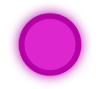
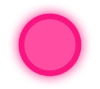
color ring get the score

diff --git a/src/containers/Game/gameEngine/index.js b/src/containers/Game/gameEngine/index.js
@@ -1,16 +1,16 @@
 import React from "react";
-import { StatusBar, TouchableOpacity, View, Alert, Text } from "react-native";
-import { GameEngine } from "react-native-game-engine";
-import { Physics, NewSpinShow, NewFire } from "./systems";
+import {StatusBar, TouchableOpacity, View, Alert, Text} from "react-native";
+import {GameEngine} from "react-native-game-engine";
+import {Physics, NewSpinShow, NewFire} from "./systems";
 import Matter from "matter-js";
-import { widthPercentageToDP as wp, heightPercentageToDP as hp } from "react-native-responsive-screen";
+import {widthPercentageToDP as wp, heightPercentageToDP as hp} from "react-native-responsive-screen";
 import LocationPulseLoader from "../animation/PulseLoader";
 import GameDashBoard from "../components/GamePlayDashboard";
 import GamePlayBottomBar from "../components/GamePlayBottomBar";
-import { getspinArray } from "../../../share/data/gamePlay/FlareArray";
+import {getspinArray} from "../../../share/data/gamePlay/FlareArray";
 import { GetFlareBox } from "../animation/GetFlareAnimation";
-import { connect } from "react-redux";
-import { bindActionCreators } from "redux";
+import {connect} from "react-redux";
+import {bindActionCreators} from "redux";
 import {
   addSpinCoinsScore,
   addSpin,
@@ -19,14 +19,15 @@ import {
   addWaveScore,
   addPassScore, setFlareToken
 } from "../../../redux/action/game";
-import { ADD_APPLE_SPIN, ADD_LOCK_SPIN, ADD_MEGA_SPIN, ADD_NIKE_SPIN } from "../../../redux/action/type";
+import {ADD_APPLE_SPIN, ADD_LOCK_SPIN, ADD_MEGA_SPIN, ADD_NIKE_SPIN} from "../../../redux/action/type";
 import GetBubbleLeftScreen from "../page/GetBubbleLeftScreen";
-import { leftSpinList } from "../../../share/data/gamePlay/LeftFlareData";
+import {leftSpinList} from "../../../share/data/gamePlay/LeftFlareData";
 import GameHeaderBar from "../components/GameHeaderBar";
 import GamePlayHeader from "../components/GamePlayHeader";
 import {randomNumber} from "../../../share/engine";
 import {soundPlay} from "../../../share/soundPlay";
 import {soundPlayNames} from "../../../share/soundPlay/soundName";
+import {FlareType} from "../../../share/data/gamePlay/FlareType";
 
 Matter.Common.isElement = () => false; //-- Overriding this function because the original references HTMLElement
 
@@ -38,8 +39,9 @@ let doubleFireReadyTimer = null;
 let burstFireTimer = null;
 let burstFireTemp = false;
 let proImageTargetMark = 0;
+let getFlareData;
 
-function GameEnginePlay({addWaveScore, gameScore, backPage, setFlareToken, addSpinCoinsScore,addSpin, addSpinList, resetAnimation, getSpinListItems }) {
+function GameEnginePlay({addWaveScore, gameScore, backPage, setFlareToken, addSpinCoinsScore, addSpin, addSpinList, resetAnimation, getSpinListItems}) {
   const [running, setRunning] = React.useState(true);
   const [bulletCount, setBulletCount] = React.useState(100);
   const [gamePlayTime, setGamePlayTime] = React.useState(100);
@@ -54,7 +56,7 @@ function GameEnginePlay({addWaveScore, gameScore, backPage, setFlareToken, addSp
   const multiShotSpeed = 80;
 
   React.useEffect(() => {
-    addWaveScore(-1* gameScore.waveScore);
+    addWaveScore(-1 * gameScore.waveScore);
     gameStart();
     return () => {
       clearInterval(gameStartInternal);
@@ -65,19 +67,19 @@ function GameEnginePlay({addWaveScore, gameScore, backPage, setFlareToken, addSp
   React.useEffect(() => {
     if (gamePlayTime < 1) {
       let getSpinCoin = 0;
-      for (let i=0; i<= gameScore.playerPassScore; i++) {
+      for (let i = 0; i <= gameScore.playerPassScore; i++) {
         getSpinCoin += i;
-        if(i===12)
+        if (i === 12)
           break;
       }
-      setFlareToken(Math.floor((getSpinCoin+gameScore.spinCoins)/25));
+      setFlareToken(Math.floor((getSpinCoin + gameScore.spinCoins) / 25));
       addSpinCoinsScore(getSpinCoin);
       clearInterval(gameStartInternal);
       gameStop();
     }
     if (gamePlayTime % targetShowTime === 0 && (gamePlayTime > 3)) {
       const random = (randomNumber(0, 10000) % wp("70")) + wp("10");
-      const targetPosition = { x: random, y: hp("90") };
+      const targetPosition = {x: random, y: hp("90")};
       const spinInfoData = getspinArray()[randomNumber(2, 4)];
       NewSpinShow(targetPosition, spinInfoData, spinSpeed);
     }
@@ -94,9 +96,34 @@ function GameEnginePlay({addWaveScore, gameScore, backPage, setFlareToken, addSp
     setGamePauseState(true);
   };
 
+  const calculatorScore = (spinInfoData) => {
+    let resultScore = 0;
+    switch (spinInfoData["spinColor"]) {
+      case FlareType.profileOrbsColor.green:
+        resultScore = 5;
+        break;
+      case FlareType.profileOrbsColor.blue:
+        resultScore = 7;
+        break;
+      case FlareType.profileOrbsColor.purple:
+        resultScore = 10;
+        break;
+      case FlareType.profileOrbsColor.pink:
+        resultScore = 15;
+        break;
+      case FlareType.profileOrbsColor.amber:
+        resultScore = 25;
+        break;
+    }
+    return resultScore;
+  };
+
   const onEvent = (e) => {
     if (e.type === "goal-target") {
       setGameHitData(e.data);
+      if(e.data["spinInfoData"]) {
+        getFlareData = e.data["spinInfoData"];
+      }
       proImageTargetMark = 0;
     }
     switch (e.type) {
@@ -130,7 +157,7 @@ function GameEnginePlay({addWaveScore, gameScore, backPage, setFlareToken, addSp
         break;
       case "goal-user":
         soundPlay(soundPlayNames.GamePlay.tapClickTarget);
-        proImageTargetMark = randomNumber(10, 100);
+        proImageTargetMark = calculatorScore(getFlareData); // tap the profile orbs
         addWaveScore(proImageTargetMark);
         break;
       case "goal-mega-tap":
@@ -162,8 +189,8 @@ function GameEnginePlay({addWaveScore, gameScore, backPage, setFlareToken, addSp
         break;
       case "goal-user-tap":
         soundPlay(soundPlayNames.GamePlay.fireWorks);
-        proImageTargetMark = 1000 + randomNumber(10, 100);
-        addWaveScore(proImageTargetMark-1000);
+        proImageTargetMark = calculatorScore(getFlareData) + 1000;// hit the profile Orbs
+        addWaveScore(proImageTargetMark);
         break;
       case "no-goal":
         break;
@@ -210,7 +237,7 @@ function GameEnginePlay({addWaveScore, gameScore, backPage, setFlareToken, addSp
   };
 
   const FirePressIn = () => {
-    burstFireTimer = setInterval(()=> {
+    burstFireTimer = setInterval(() => {
       doubleFireReady = true;
       burstFireTemp = true;
       onMultiFireGun(5);
@@ -245,7 +272,7 @@ function GameEnginePlay({addWaveScore, gameScore, backPage, setFlareToken, addSp
       }, 220);
     }
     clearInterval(burstFireTimer);
-      burstFireTemp = false
+    burstFireTemp = false
   };
   const gameStart = () => {
     const id = setInterval(() => {
@@ -258,11 +285,11 @@ function GameEnginePlay({addWaveScore, gameScore, backPage, setFlareToken, addSp
 
   const setupWorld = () => {
     const random = Math.floor(Math.random() * 10000) % wp("100");
-    const targetPosition = { x: random, y: hp("89") };
-    const engine = Matter.Engine.create({ enableSleeping: false });
+    const targetPosition = {x: random, y: hp("89")};
+    const engine = Matter.Engine.create({enableSleeping: false});
     const world = engine.world;
     return {
-      physics: { engine: engine, world: world },
+      physics: {engine: engine, world: world},
       targetPosition: targetPosition
     };
   };
@@ -272,7 +299,7 @@ function GameEnginePlay({addWaveScore, gameScore, backPage, setFlareToken, addSp
       flex: 1
     }}>
       <GameEngine
-        style={{ zIndex: 3 }}
+        style={{zIndex: 3}}
         ref={(ref) => {
           gameEngine = ref;
         }}
@@ -289,9 +316,9 @@ function GameEnginePlay({addWaveScore, gameScore, backPage, setFlareToken, addSp
                      spinInfoData={gameHitData["spinInfoData"]}
                      mark={proImageTargetMark}/>
       }
-      <GameDashBoard />
+      <GameDashBoard/>
       {
-        !running && getSpinListItems.length < 1 ? <GamePlayHeader backPage={backPage}/>: <GameHeaderBar/>
+        !running && getSpinListItems.length < 1 ? <GamePlayHeader backPage={backPage}/> : <GameHeaderBar/>
       }
       <GamePlayBottomBar bulletCount={bulletCount} gamePlayTime={gamePlayTime}/>
       <TouchableOpacity
@@ -317,9 +344,9 @@ function GameEnginePlay({addWaveScore, gameScore, backPage, setFlareToken, addSp
           height: hp("100"),
         }}>
           <TouchableOpacity onPress={gameStart}
-          style={{
-            flex: 1,
-          }}>
+                            style={{
+                              flex: 1,
+                            }}>
             <View style={{
               flex: 1,
               alignItems: "center",
@@ -356,7 +383,7 @@ const mapDispatchToProps = (dispatch) => {
       addWaveScore: addWaveScore,
       addPassScore: addPassScore,
       addSpin: addSpin,
-      addSpinList:addSpinList,
+      addSpinList: addSpinList,
       resetAnimation: resetAnimation,
       setFlareToken: setFlareToken
     }, dispatch)

diff --git a/src/share/data/MocData.js b/src/share/data/MocData.js
@@ -33,7 +33,11 @@ const AppMocData = {
           blue: require('../../../assets/images/game/gameplay/target/circle/target-bg-blue-c.png'),
           green: require('../../../assets/images/game/gameplay/target/circle/target-bg-green-c.png'),
           orange: require('../../../assets/images/game/gameplay/target/circle/target-bg-orange-c.png'),
-          pink: require('../../../assets/images/game/gameplay/target/circle/target-bg-pink-c.png')
+          purple: require('../../../assets/images/game/gameplay/target/circle/target-bg-purple-c.png'),
+          pink: require('../../../assets/images/game/gameplay/target/circle/target-bg-pink-c.png'),
+          red: require('../../../assets/images/game/gameplay/target/circle/target-bg-red-c.png'),
+          white: require('../../../assets/images/game/gameplay/target/circle/target-bg-white-c.png'),
+          amber: require('../../../assets/images/game/gameplay/target/circle/target-bg-amber-c.png')
         },
         mega: {
           apple: require('../../../assets/images/game/gameplay/target/mega/apple.png'),
@@ -44,7 +48,7 @@ const AppMocData = {
         shadow: {
           white: require('../../../assets/images/game/gameplay/target/shadow/target-trace-white-3.png'),
           blue: require('../../../assets/images/game/gameplay/target/shadow/target-trace-blue-3.png'),
-          pink: require('../../../assets/images/game/gameplay/target/shadow/target-trace-pink-3.png'),
+          purple: require('../../../assets/images/game/gameplay/target/shadow/target-trace-purple-3.png'),
           green: require('../../../assets/images/game/gameplay/target/shadow/target-trace-green-3.png'),
           orange: require('../../../assets/images/game/gameplay/target/shadow/target-trace-orange-3.png')
         },

diff --git a/src/share/data/gamePlay/FlareArray.js b/src/share/data/gamePlay/FlareArray.js
@@ -35,7 +35,7 @@ export const getspinArray = () => {
       megaType: FlareType.spinType.mega[getRandomType(FlareType.spinType.mega, 4)],
       userType: FlareType.spinType.user.woman,
       spinNumber: 0,
-      spinColor: FlareType.spinColor[getRandomType(FlareType.spinColor, 4)],
+      spinColor: FlareType.spinColor[getRandomType(FlareType.flareOrbsColor, 5)],
       shadowColor: FlareType.shadowColor.white,
       spinSize: FlareType.spinSize[getRandomType(FlareType.spinSize, 3)],
       spinTextSize: FlareType.spinTextSize.small
@@ -45,7 +45,7 @@ export const getspinArray = () => {
       megaType: FlareType.spinType.mega.apple,
       userType: FlareType.spinType.user[getRandomType(FlareType.spinType.user, 2)],
       spinNumber: -1,
-      spinColor: FlareType.spinColor[getRandomType(FlareType.spinColor, 4)],
+      spinColor: FlareType.spinColor[getRandomType(FlareType.profileOrbsColor, 4)],
       shadowColor: FlareType.shadowColor.white,
       spinSize: FlareType.spinSize[getRandomType(FlareType.spinSize, 3)],
       spinTextSize: FlareType.spinTextSize.small

diff --git a/src/containers/Game/components/FlareSpin.js b/src/containers/Game/components/FlareSpin.js
@@ -20,6 +20,7 @@ const FlareSpin = ({ spinInfoData, angle, shadow=true, running = true }) => {
   } else if (spinNumber <= 0) {
     ty = spinSize / 8.6;
   }
+
   return (
     <View style={{
       display: "flex",
@@ -28,7 +29,7 @@ const FlareSpin = ({ spinInfoData, angle, shadow=true, running = true }) => {
       marginTop: hp(spinSize/-8),
     }}>
       {
-        shadow &&  <Image source={targetImage.shadow[spinColor]} style={{
+        shadow &&  <Image source={targetImage.shadow['orange']} style={{
           marginTop: wp(spinSize / 6),
           width: wp(spinSize * 2 / 3),
           height: hp(spinSize * 3 / 2),

diff --git a/src/share/data/gamePlay/FlareType.js b/src/share/data/gamePlay/FlareType.js
@@ -17,6 +17,10 @@ export const FlareType = {
     green: 'green',
     orange: 'orange',
     blue:'blue',
+    purple: 'purple',
+    white: 'white',
+    amber: 'amber',
+    red: 'red',
     pink: 'pink'
   },
   shadowColor: {
@@ -31,5 +35,18 @@ export const FlareType = {
     small: 10,
     normal: 12,
     big: 15,
+  },
+  profileOrbsColor: {
+    green: 'green',
+    blue:'blue',
+    purple: 'purple',
+    pink: 'pink',
+    amber: 'amber'
+  },
+  flareOrbsColor: {
+    white: 'white',
+    amber: 'amber',
+    orange: 'orange',
+    red: 'red'
   }
-}
+};

diff --git a/src/containers/Game/components/GamePlayBottomBar.js b/src/containers/Game/components/GamePlayBottomBar.js
@@ -3,8 +3,6 @@ import { Text } from "native-base";
 import { Animated, View } from "react-native";
 import React, { useRef } from "react";
 import { widthPercentageToDP as wp } from "react-native-responsive-screen";
-import * as Audio from "expo-av/build/Audio";
-import AppMocData from "../../../share/data/MocData";
 import {soundPlay} from "../../../share/soundPlay";
 import {soundPlayNames} from "../../../share/soundPlay/soundName";
 

diff --git a/src/navigators/GameNavigator.js b/src/navigators/GameNavigator.js
@@ -13,14 +13,14 @@ import GetAnswerFlare from "../containers/Game/page/GetAnswerFlare"
 
 const GameNavigator = createStackNavigator({
 
-  GameJoin: {
-    screen: GameJoin,
+  GamePlay: {
+    screen: GamePlay,
     navigationOptions: {
       header: null
     }
   },
-  GamePlay: {
-    screen: GamePlay,
+  GameJoin: {
+    screen: GameJoin,
     navigationOptions: {
       header: null
     }

diff --git a/src/share/data/gamePlay/LeftFlareData.js b/src/share/data/gamePlay/LeftFlareData.js
@@ -36,7 +36,7 @@ export const leftSpinList = [
     megaType: FlareType.spinType.mega['lock'],
     userType: FlareType.spinType.user.woman,
     spinNumber: 0,
-    spinColor: FlareType.spinColor['pink'],
+    spinColor: FlareType.spinColor['purple'],
     shadowColor: FlareType.shadowColor.white,
     spinSize: FlareType.spinSize['small'],
     spinTextSize: FlareType.spinTextSize.small
